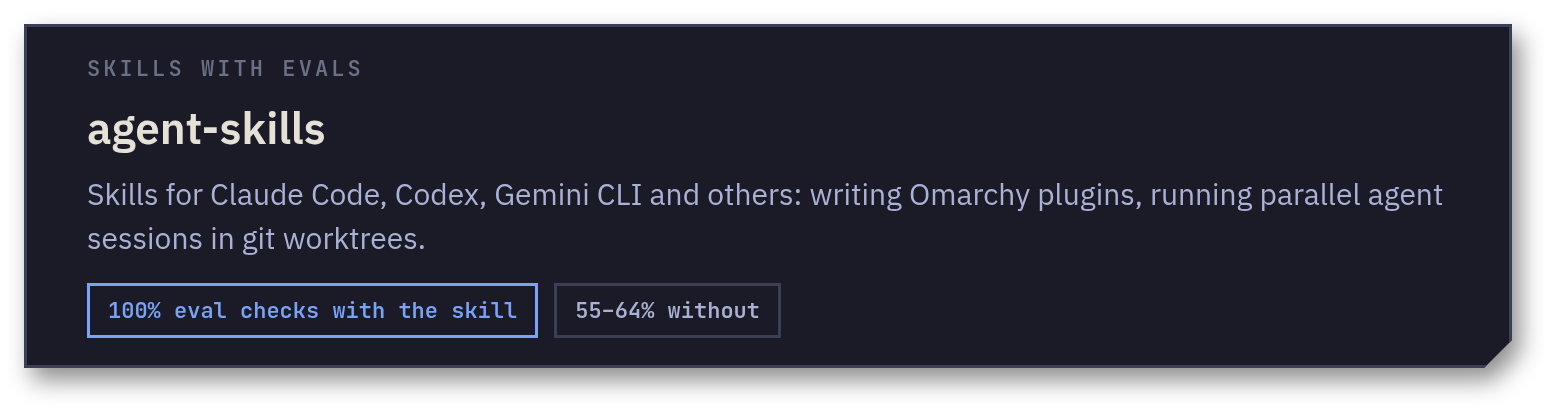
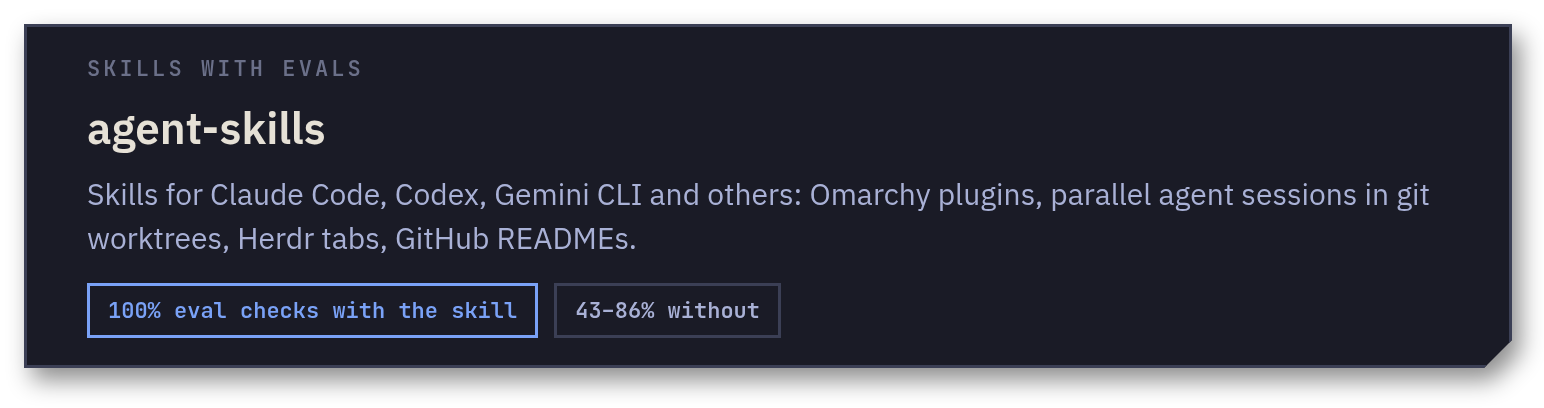
agent-skills card: four skills, 43-86% without

Changed region(s): [[0.5285, 0.4412, 0.9326, 0.5294], [0.0622, 0.5588, 0.4041, 0.6176], [0.3731, 0.7353, 0.4352, 0.7941]]

diff --git a/assets/src/cards.html b/assets/src/cards.html
@@ -88,8 +88,8 @@
 <template id="t-agent-skills">
   <div class="card info">
     <span class="label">Skills with evals</span><h2>agent-skills</h2>
-    <p>Skills for Claude Code, Codex, Gemini CLI and others: writing Omarchy plugins, running parallel agent sessions in git worktrees.</p>
-    <div class="chips"><span class="chip on">100% eval checks with the skill</span><span class="chip">55–64% without</span></div>
+    <p>Skills for Claude Code, Codex, Gemini CLI and others: Omarchy plugins, parallel agent sessions in git worktrees, Herdr tabs, GitHub READMEs.</p>
+    <div class="chips"><span class="chip on">100% eval checks with the skill</span><span class="chip">43–86% without</span></div>
   </div>
 </template>
 <template id="t-tsukuyomi">

diff --git a/README.md b/README.md
@@ -14,7 +14,7 @@
 
 <p align="center">
   <picture><source media="(prefers-color-scheme: dark)" srcset="./assets/group-agents-dark.png" /><img src="./assets/group-agents-light.png" width="772" alt="AI agents" /></picture><br>
-  <a href="https://github.com/dDan4a/agent-skills"><picture><source media="(prefers-color-scheme: dark)" srcset="./assets/agent-skills-dark.png" /><img src="./assets/agent-skills-light.png" width="772" alt="agent-skills: skills for AI coding agents, each with evals. 100% of eval checks with the skill, 55-64% without." /></picture></a>
+  <a href="https://github.com/dDan4a/agent-skills"><picture><source media="(prefers-color-scheme: dark)" srcset="./assets/agent-skills-dark.png" /><img src="./assets/agent-skills-light.png" width="772" alt="agent-skills: skills for AI coding agents (Omarchy plugins, parallel sessions in git worktrees, Herdr tabs, GitHub READMEs), each with evals. 100% of eval checks with the skill, 43-86% without." /></picture></a>
 </p>
 
 <p align="center">
